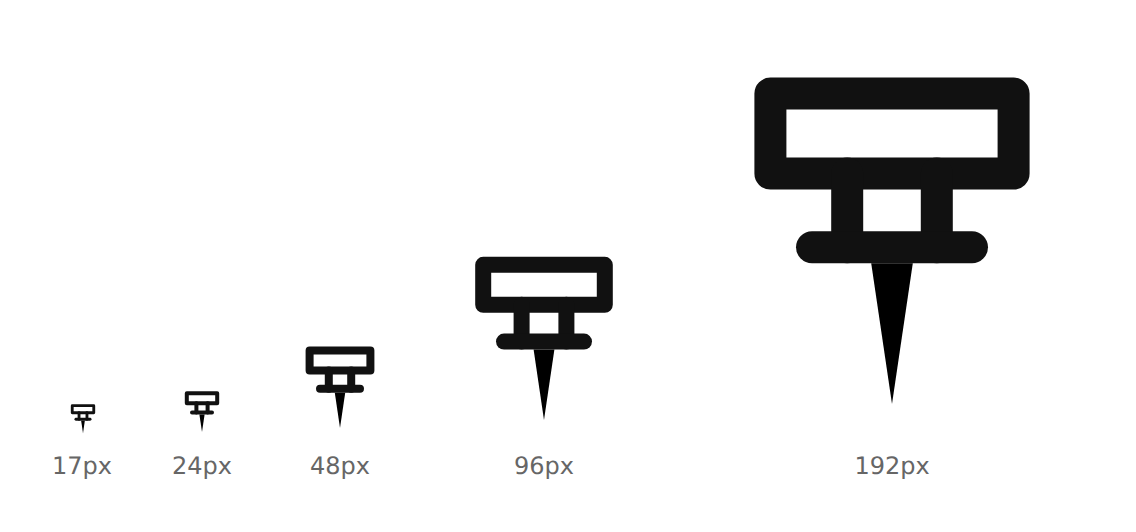
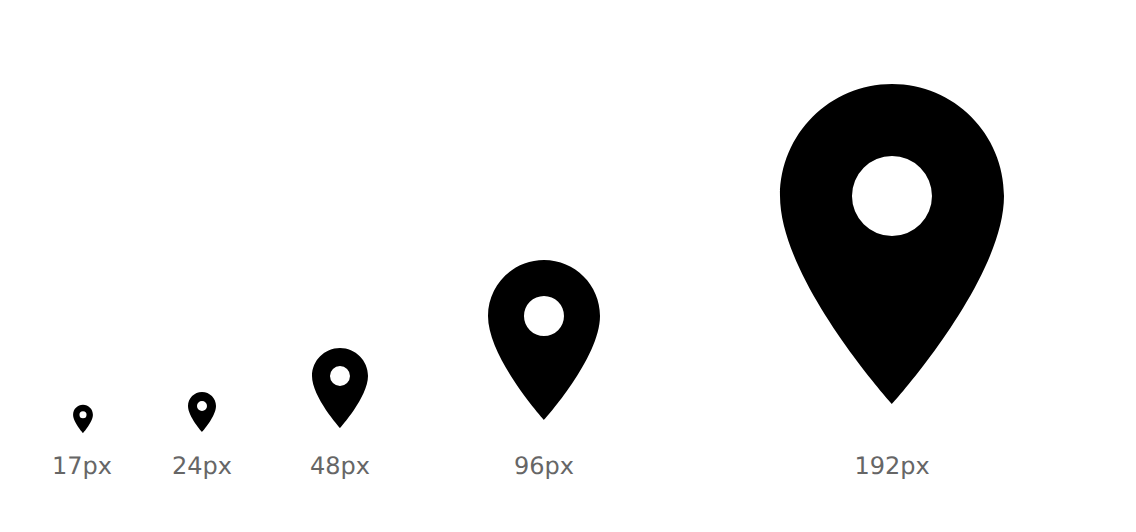
The Map pin becomes the map marker Tom drew, not a thumbtack

diff --git a/lib/Icons.lib.php b/lib/Icons.lib.php
@@ -60,38 +60,26 @@ $ec_icons = array(
 	// question — "I forgot that I love what you already have now" (2026-08-08). Recorded so the
 	// camera is not re-proposed: it was drawn, compared, and declined on the merits.
 	'view'       => '<path d="M2 12s3.5-6 10-6 10 6 10 6-3.5 6-10 6S2 12 2 12z"/><circle cx="12" cy="12" r="2.5"/>',
-	// **THE MAP MENU'S PUSH PIN** (Tom, 2026-08-27: *"a nice push pin icon for Map would be good"*).
-	// A tack stuck through a paper map is the oldest thing in this trade that MEANS "map", which is
-	// why it beats a folded sheet: a folded sheet is a document, and this menu is about the one
-	// drawing you are looking at.
+	// **THE MAP MENU'S PIN** (Tom, 2026-08-27: *"a nice push pin icon for Map would be good"*, and
+	// 2026-08-28, with a picture of the one he means: *"Replace the Map icon with a standard pushpin.
+	// I would not ask if it were already done."*). **It is the MAP MARKER — the teardrop with a round
+	// hole — not a thumbtack.** That is what "standard pushpin" means to a reader of maps, and it is
+	// the shape every mapping product has trained them on.
 	//
-	// **DRAWN FRONT-ON, NOT TILTED.** Every commercial push pin is drawn at 45°, and at 17px a
-	// tilted 2px stroke turns the needle into a smudge running through the barrel — the diagonal
-	// costs about 30% of the length to the same bounding box, and the needle is the thinnest thing
-	// here. Straight on, the four features stack vertically and each gets its own row of pixels.
+	// **A FILLED SILHOUETTE WITH AN EVEN-ODD HOLE, not a 2-unit outline.** The hole is 5 units
+	// across; drawn as a stroked circle its own stroke would eat 2 of those 5 and close at 17px.
+	// Filled, the hole is exactly its geometry. The hydrant's cap disc is unstroked for the same
+	// reason, and this shape only reads at all because the aperture survives.
 	//
-	// Top to bottom: the thumb plate you press, the grip, the flange the fingers stop against, and
-	// the needle.
-	//
-	// **THE PLATE IS THE WIDEST THING AND THE FLANGE IS NARROWER**, which is the object: the disc
-	// you press is broad and the collar the needle comes out of is not. Drawn the other way round
-	// the first time and it read as a table, not a pin.
-	//
-	// **THE NEEDLE IS A FILLED TRIANGLE WITH NO STROKE, and that is the only way it can be sharp.**
-	// Every other path here is stroked at 2 units, which inflates a shape by one unit on each side
-	// — so a 2-unit-wide stroked needle paints 4 units across and comes out a cone. Unstroked, its
-	// width is exactly its geometry: 2.2 at the collar, tapering to a real point. The hydrant's cap
-	// disc is unstroked for the same kind of reason.
-	//
-	// THE GAP BUDGET at 17px (17/24 of a unit is 0.71px, and a 2-unit stroke eats one unit either
-	// side of a line): plate painted 1.6..18.5 with 3 units of interior white, grip 7..11.4 with
-	// 1.6 of white between its two legs, flange at 11.4, needle 12.4..21.8. The four parts TOUCH —
-	// a push pin is one object, and air between its parts would read as four marks. Verify with a
-	// real rendering, never ASCII:
+	// SUPERSEDED, recorded so it is not redrawn: a front-on THUMBTACK (plate, grip, flange, needle,
+	// stacked vertically to keep a 2px stroke off the diagonal). It was legible and it was not a pin
+	// — at 17px the broad plate over a stem reads as a table or a rubber stamp. The legibility
+	// argument was sound and it was answered by changing the OBJECT, not the drawing of it.
+	// Verify with a real rendering, never ASCII:
 	//     node dev/scripts/icon_png_preview.js pin
-	'pin'        => '<path d="M4.4 2.6H19.6V7.6H4.4Z"/><path d="M9.2 7.6V12.2"/><path d="M14.8 7.6V12.2"/>'
-		. '<path d="M7 12.2H17"/>'
-		. '<path fill="currentColor" stroke="none" d="M12 22L10.7 13.2H13.3Z"/>',
+	'pin'        => '<path fill="currentColor" stroke="none" fill-rule="evenodd"'
+		. ' d="M12 2c-3.87 0-7 3.13-7 7 0 5.25 7 13 7 13s7-7.75 7-13c0-3.87-3.13-7-7-7z'
+		. 'M12 11.5a2.5 2.5 0 1 1 0-5 2.5 2.5 0 0 1 0 5z"/>',
 	// SIX TEETH at a 60° pitch. The count is a consequence of the rule, not the point of it: a gear
 	// reads as a gear when TOOTH WIDTH EQUALS GAP WIDTH at the pitch circle, with matching fillets on
 	// the inside and outside corners — which is what the real history of gear refinement converged
